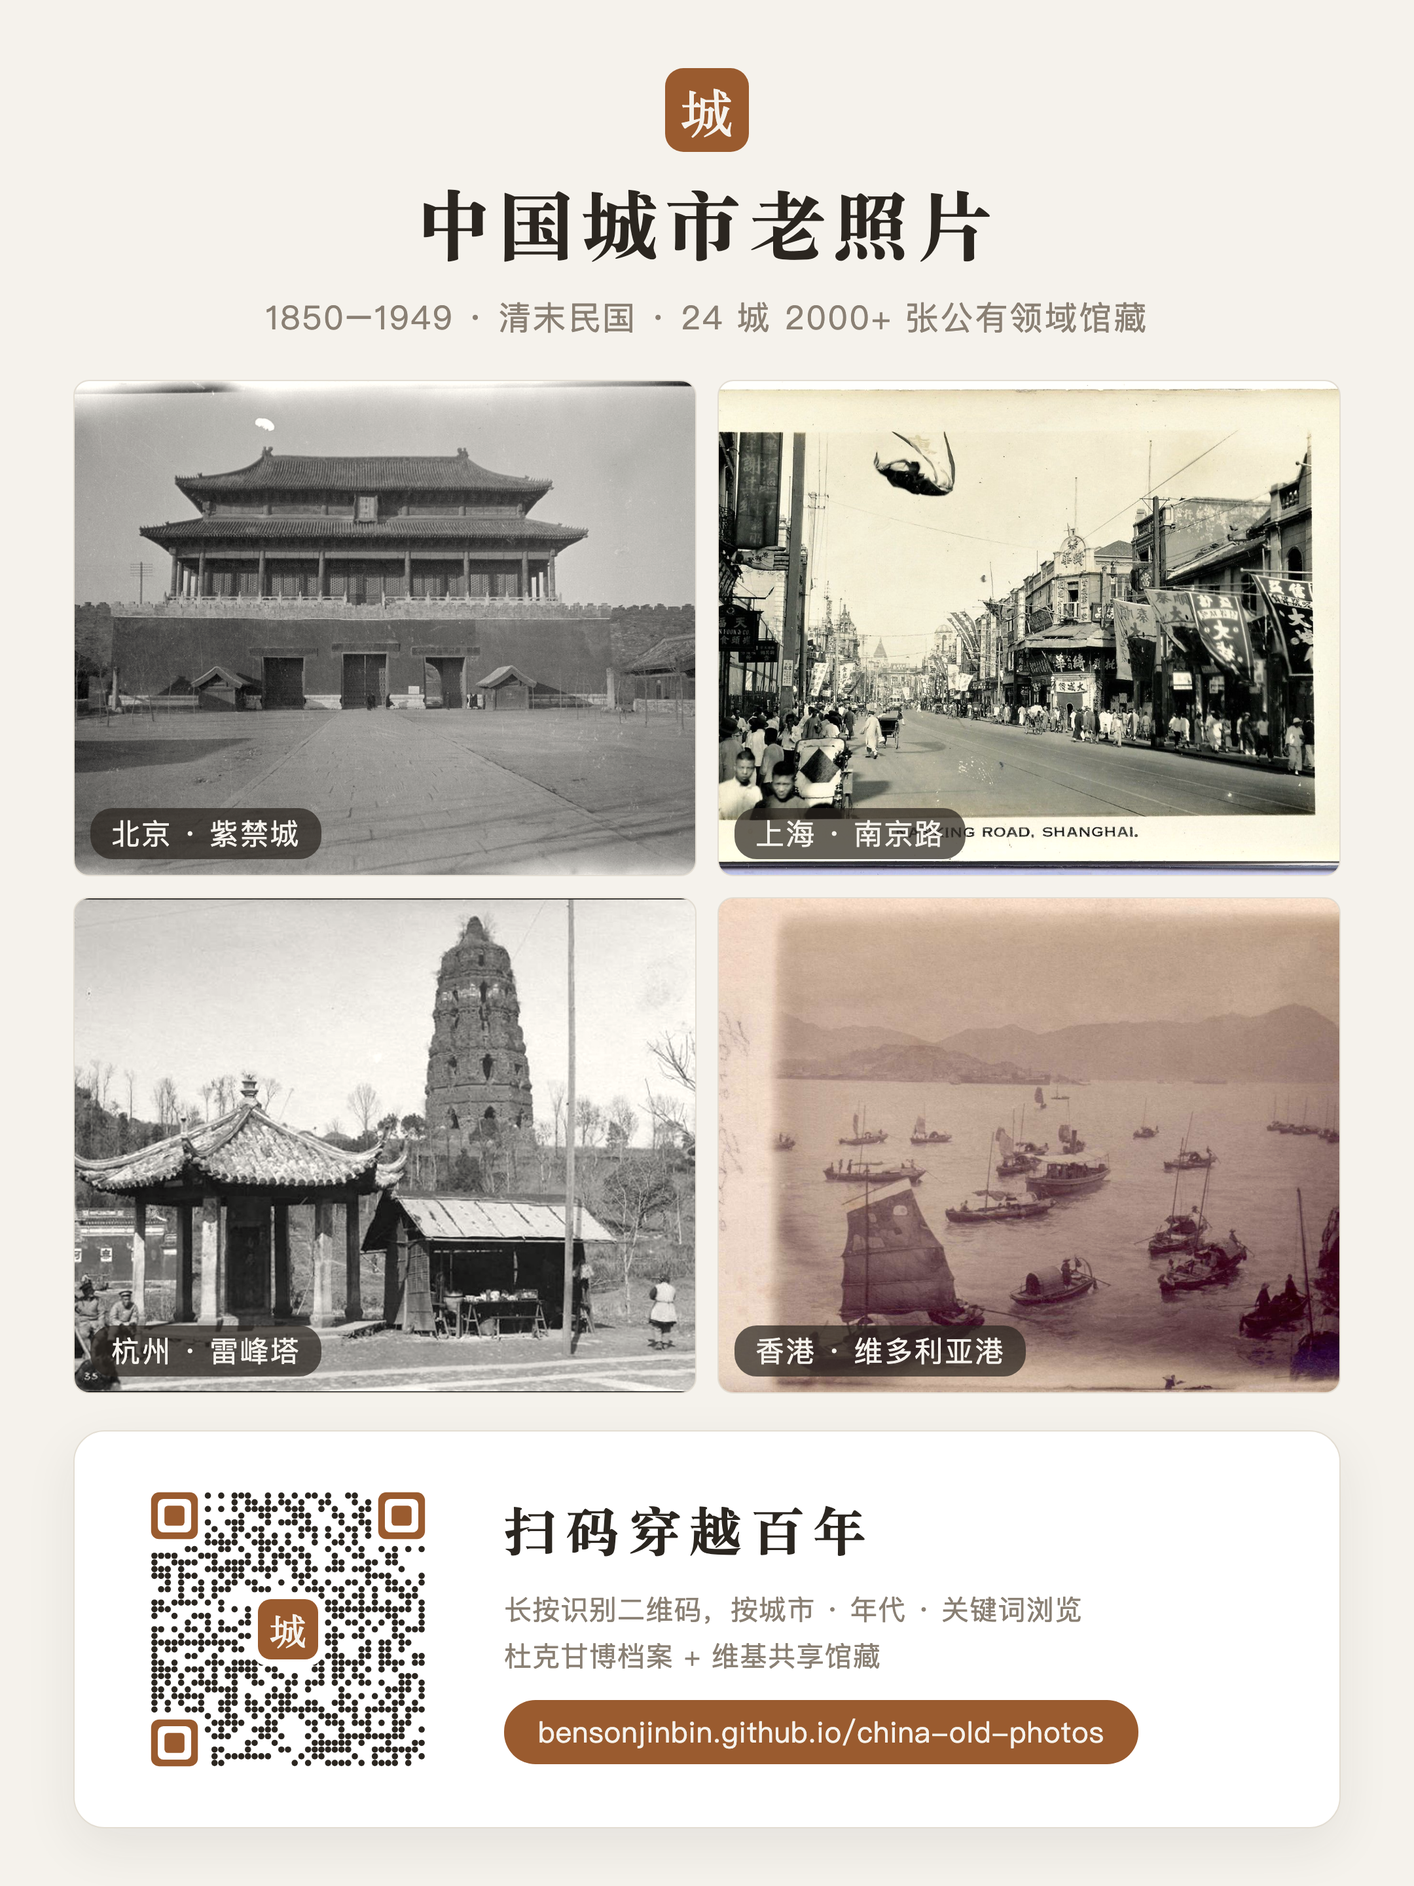
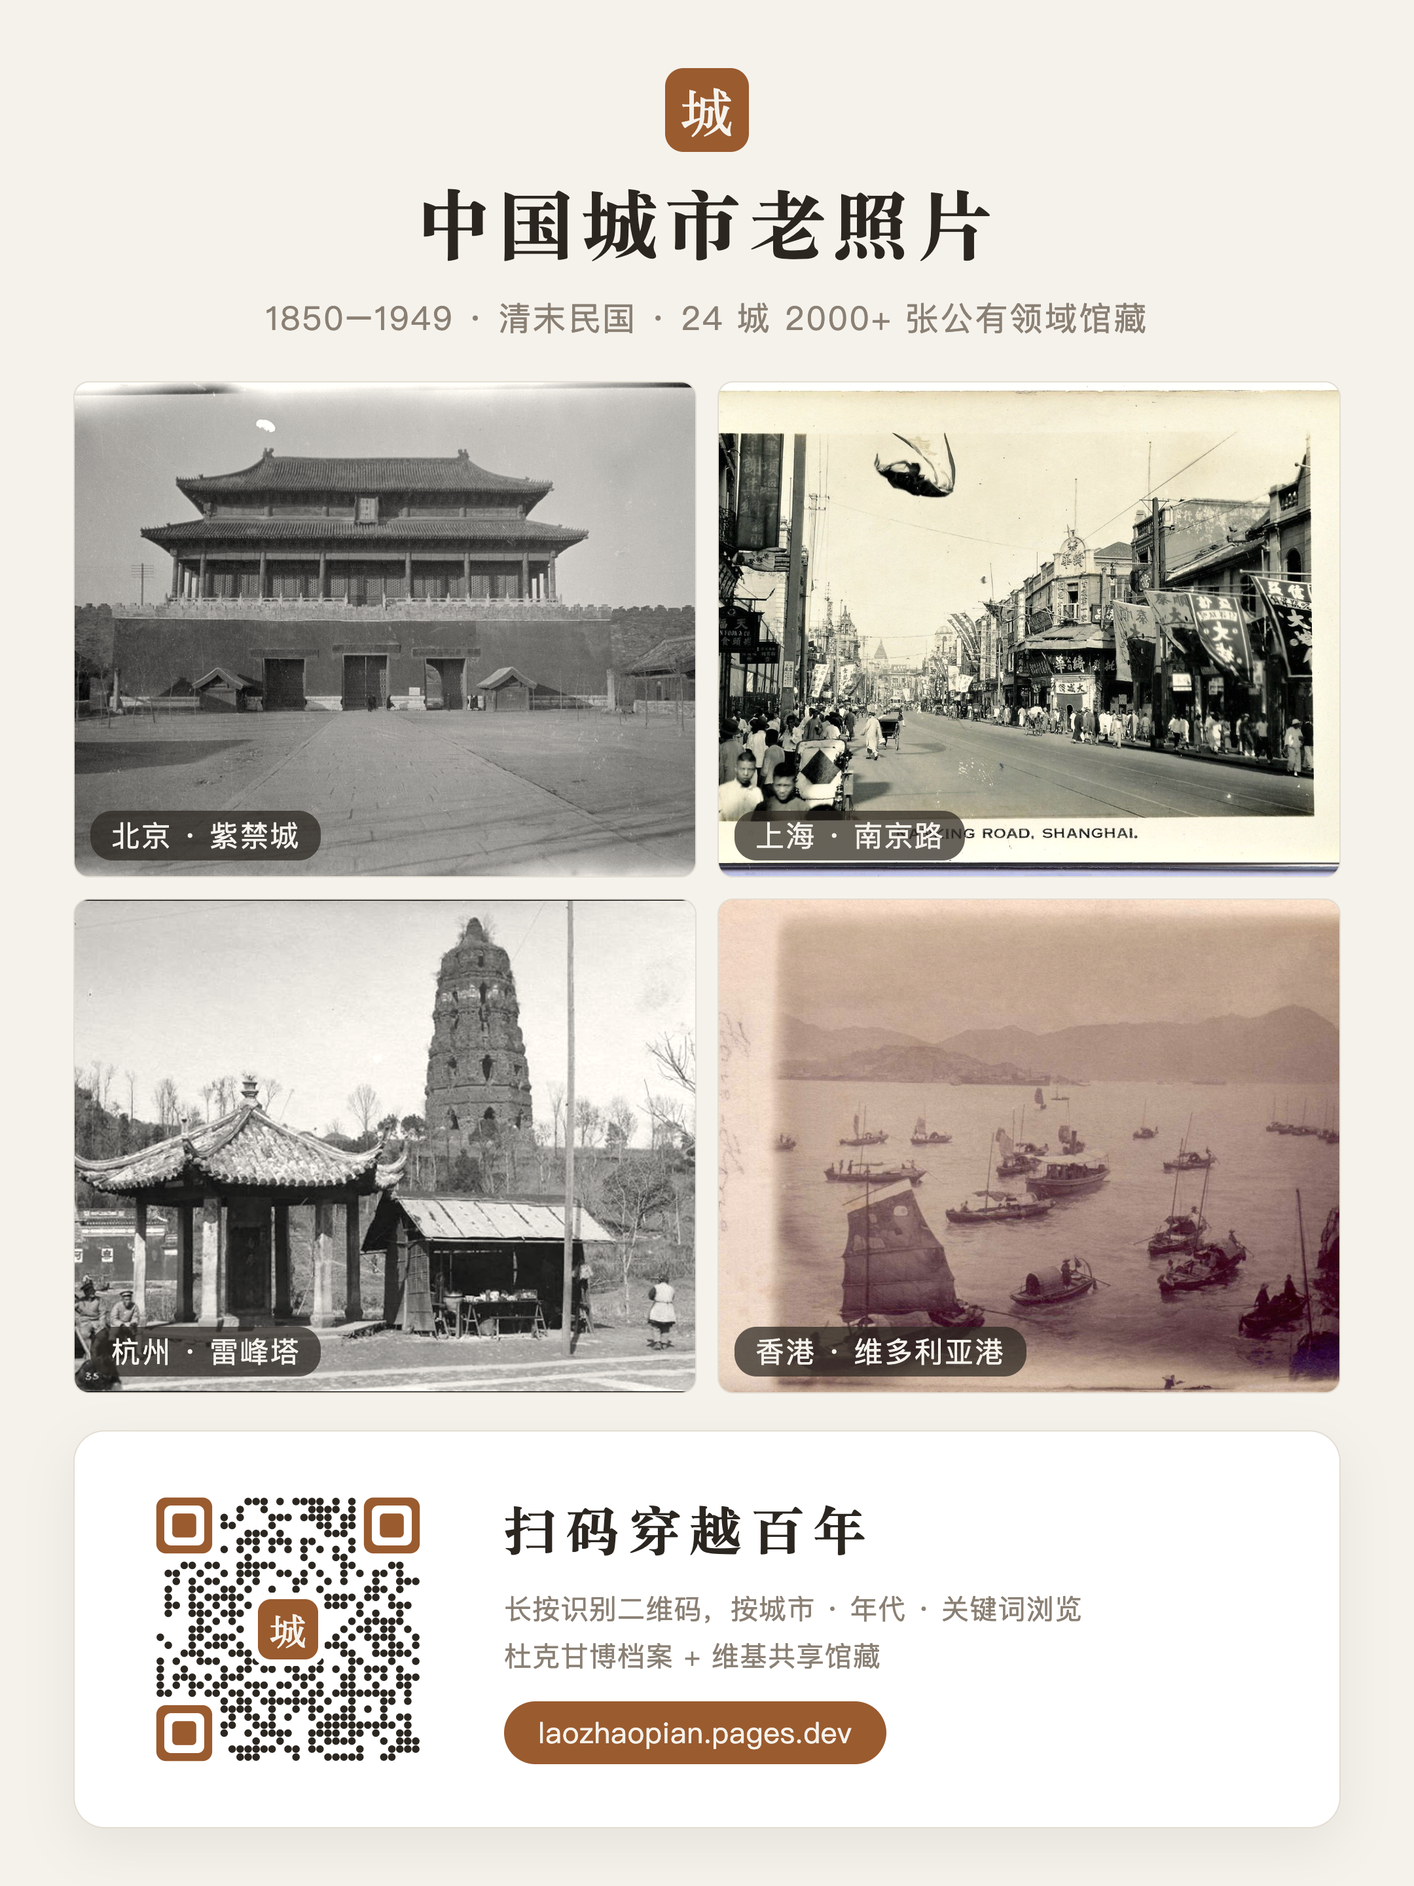
宣传物料改指 pages.dev 主站：二维码与海报重新生成，新增 gen_qr.py
迁站之后二维码和海报仍写着 bensonjinbin.github.io。扫码目前还能打开——
gh-pages 分支仍在发布，deploy.py 不带参数默认就发那边——但落地页是备份站，
而备份站的 canonical 指向 pages.dev，等于把扫码流量导到一个自称不是正本的镜像。

新码 version 4-H（33x33 模块）。新地址短了 17 字节，版本比原来的 6-H 降了两级，
模块更少更大反而好扫；纠错等级仍是 H，中间印章遮挡约 3% 面积，余量充足。

新增 tools/gen_qr.py。上次做这批物料没留生成脚本，这次只能从 svg 反推样式重写，
补上以免再来一遍。要点：
- 三个产物先在内存里全部做好再一起落盘。否则中途失败（缺字体等）会留下
  svg 是新的、png 还是旧的错配状态，海报和单发的码指向不同地址
- 印章字体走候选列表，开工前就解析，找不到直接带清单退出
- CoreImage + OpenCV 双引擎回读，扫不出或扫错就非零退出，坏码进不了提交。
  两个引擎各自可能不在（swift 要 Xcode CLT，cv2 要单独装），缺了跳过并说明，
  但一个都没有时明确报「本次未校验」并失败，不把工具缺席冒充成校验通过

两个模板里的图片路径原本写死成 file:///Users/jinbin/Documents/codeup/...，
与当前仓库路径不符，直接用浏览器打开是一片空框，一并改成相对路径，
并在文件头补上重截步骤。share_card.html 的「2041 张」已过时（现 2035），
改成 2000+ 免得每加一批照片就走样。

diff --git a/tools/share_card.html b/tools/share_card.html
@@ -1,4 +1,10 @@
 <!DOCTYPE html>
+<!--
+  竖版分享图模板（1080x1440，6 图，无二维码；要带码的用 qr_poster.html）。
+  用浏览器按 1080x1440 视口截图，deviceScaleFactor 想要 2 倍图就设 2。
+  资源路径一律相对（本文件在 tools/ 下，故 ../），别写 file:///Users/... 绝对路径。
+  下方 .url 文案要和 build_gallery2.py 的 SITE_URL 保持一致。
+-->
 <html lang="zh-CN">
 <head>
 <meta charset="utf-8">
@@ -53,18 +59,18 @@ h1 { font-size: 58px; font-weight: 900; letter-spacing: .08em; }
 <div class="head">
   <div class="seal">城</div>
   <h1>中国城市老照片</h1>
-  <div class="sub">1850–1949 · 清末民国 · 24 城 2041 张公有领域馆藏</div>
+  <div class="sub">1850–1949 · 清末民国 · 24 城 2000+ 张公有领域馆藏</div>
 </div>
 <div class="grid">
-  <div class="cell"><img src="file:///Users/jinbin/Documents/codeup/china-old-photos/beijing/gamble/gamble_044B_0462_Forbidden_City_Gate.jpg" style="transform:scale(1.08)"><span class="tag">北京 · 紫禁城</span></div>
-  <div class="cell"><img src="file:///Users/jinbin/Documents/codeup/china-old-photos/hangzhou/wiki/02_雷峰塔_1910.jpg" style="object-position:50% 18%"><span class="tag">杭州 · 雷峰塔</span></div>
-  <div class="cell"><img src="file:///Users/jinbin/Documents/codeup/china-old-photos/shanghai/wiki/16_Nanking_Road_Shanghai_c_1930s.jpg"><span class="tag">上海 · 南京路</span></div>
-  <div class="cell"><img src="file:///Users/jinbin/Documents/codeup/china-old-photos/hongkong/wiki/06_HK_JunksSampans_c1900s.jpg"><span class="tag">香港 · 维多利亚港</span></div>
-  <div class="cell"><img src="file:///Users/jinbin/Documents/codeup/china-old-photos/guangzhou/wiki/17_Five-Story_Pagoda_in_the_1890s.jpg"><span class="tag">广州 · 镇海楼</span></div>
-  <div class="cell"><img src="file:///Users/jinbin/Documents/codeup/china-old-photos/chengdu/gamble/gamble_011B_0109_Inside_Imperial_City_Gate.jpg" style="transform:scale(1.14)"><span class="tag">成都 · 皇城门</span></div>
+  <div class="cell"><img src="../beijing/gamble/gamble_044B_0462_Forbidden_City_Gate.jpg" style="transform:scale(1.08)"><span class="tag">北京 · 紫禁城</span></div>
+  <div class="cell"><img src="../hangzhou/wiki/02_雷峰塔_1910.jpg" style="object-position:50% 18%"><span class="tag">杭州 · 雷峰塔</span></div>
+  <div class="cell"><img src="../shanghai/wiki/16_Nanking_Road_Shanghai_c_1930s.jpg"><span class="tag">上海 · 南京路</span></div>
+  <div class="cell"><img src="../hongkong/wiki/06_HK_JunksSampans_c1900s.jpg"><span class="tag">香港 · 维多利亚港</span></div>
+  <div class="cell"><img src="../guangzhou/wiki/17_Five-Story_Pagoda_in_the_1890s.jpg"><span class="tag">广州 · 镇海楼</span></div>
+  <div class="cell"><img src="../chengdu/gamble/gamble_011B_0109_Inside_Imperial_City_Gate.jpg" style="transform:scale(1.14)"><span class="tag">成都 · 皇城门</span></div>
 </div>
 <div class="foot">
-  <div class="url">bensonjinbin.github.io/china-old-photos</div>
+  <div class="url">laozhaopian.pages.dev</div>
   <div class="hint">按城市 · 年代 · 关键词浏览 &nbsp;|&nbsp; 杜克甘博档案 + 维基共享馆藏</div>
 </div>
 </body>

diff --git a/tools/qr_poster.html b/tools/qr_poster.html
@@ -1,4 +1,15 @@
 <!DOCTYPE html>
+<!--
+  宣传海报模板 → assets/qr-poster.png（1080x1440 @2x = 2160x2880）。
+
+  重截步骤（改完文案或换了二维码就得重截，否则海报里还是旧的）:
+    1. 二维码先重生成: uv run --with segno --with pillow python3 tools/gen_qr.py
+    2. 本文件用浏览器按 1080x1440 视口、deviceScaleFactor=2 截全页存成 assets/qr-poster.png
+    3. 回读校验海报里的码扫出来是不是当前 SITE_URL
+
+  资源路径一律用相对地址（本文件在 tools/ 下，所以是 ../）。别写 file:///Users/... 绝对路径，
+  换机器或换目录后就全成空框了。下方 .url 文案要和 build_gallery2.py 的 SITE_URL 保持一致。
+-->
 <html lang="zh-CN">
 <head>
 <meta charset="utf-8">
@@ -79,20 +90,20 @@ h1 { font-size: 58px; font-weight: 900; letter-spacing: .1em; }
   <div class="sub">1850–1949 · 清末民国 · 24 城 2000+ 张公有领域馆藏</div>
 </div>
 <div class="grid">
-  <div class="cell"><img src="file:///Users/jinbin/Documents/codeup/china-old-photos/beijing/gamble/gamble_044B_0462_Forbidden_City_Gate.jpg" style="transform:scale(1.08)"><span class="tag">北京 · 紫禁城</span></div>
-  <div class="cell"><img src="file:///Users/jinbin/Documents/codeup/china-old-photos/shanghai/wiki/16_Nanking_Road_Shanghai_c_1930s.jpg"><span class="tag">上海 · 南京路</span></div>
-  <div class="cell"><img src="file:///Users/jinbin/Documents/codeup/china-old-photos/hangzhou/wiki/04_雷峰塔_1920年代_倒塌前.jpg"><span class="tag">杭州 · 雷峰塔</span></div>
-  <div class="cell"><img src="file:///Users/jinbin/Documents/codeup/china-old-photos/hongkong/wiki/06_HK_JunksSampans_c1900s.jpg"><span class="tag">香港 · 维多利亚港</span></div>
+  <div class="cell"><img src="../beijing/gamble/gamble_044B_0462_Forbidden_City_Gate.jpg" style="transform:scale(1.08)"><span class="tag">北京 · 紫禁城</span></div>
+  <div class="cell"><img src="../shanghai/wiki/16_Nanking_Road_Shanghai_c_1930s.jpg"><span class="tag">上海 · 南京路</span></div>
+  <div class="cell"><img src="../hangzhou/wiki/04_雷峰塔_1920年代_倒塌前.jpg"><span class="tag">杭州 · 雷峰塔</span></div>
+  <div class="cell"><img src="../hongkong/wiki/06_HK_JunksSampans_c1900s.jpg"><span class="tag">香港 · 维多利亚港</span></div>
 </div>
 <div class="foot">
   <div class="qrbox">
-    <img class="qr" src="file:///Users/jinbin/Documents/codeup/china-old-photos/assets/qrcode.svg">
+    <img class="qr" src="../assets/qrcode.svg">
     <div class="logo"><div class="s">城</div></div>
   </div>
   <div class="ft">
     <div class="slogan">扫码穿越百年</div>
     <div class="hint">长按识别二维码，按城市 · 年代 · 关键词浏览<br>杜克甘博档案 + 维基共享馆藏</div>
-    <div class="url">bensonjinbin.github.io/china-old-photos</div>
+    <div class="url">laozhaopian.pages.dev</div>
   </div>
 </div>
 </body>

diff --git a/tools/gen_qr.py b/tools/gen_qr.py
@@ -1,0 +1,219 @@
+#!/usr/bin/env python3
+"""生成站点宣传二维码（圆点风格 + 城字印章）。
+
+三个产物，地址统一取 SITE_URL，默认与 build_gallery2.py 的默认值一致：
+  assets/qrcode.svg        圆点码，不含印章 —— qr_poster.html 用它，印章由页面 DOM 叠加
+  assets/qrcode.png        圆点码 + 烤进去的印章，1440px，单独发群/朋友圈用
+  assets/qrcode-plain.png  方块素码，540px，塞进别人版式里时用
+
+用法（segno/Pillow 没装就让 uv 现装，不污染系统 python）:
+  uv run --with segno --with pillow python3 tools/gen_qr.py
+  SITE_URL=https://example.com/ uv run --with segno --with pillow python3 tools/gen_qr.py
+
+纠错等级固定 H（可容 30% 损伤），所以中间盖印章仍能扫。段长变了版本会跟着变
+（模块数少 = 单点更大 = 更好扫），几何全部按模块数推导，不写死画布尺寸。
+改完二维码记得重截海报，见 qr_poster.html 顶部注释。
+"""
+import os
+import subprocess
+import sys
+
+try:
+    import segno
+    from PIL import Image, ImageDraw, ImageFont
+except ModuleNotFoundError as e:
+    sys.exit(f"缺依赖 {e.name}。用这条跑：\n"
+             f"  uv run --with segno --with pillow python3 tools/gen_qr.py")
+
+BASE = os.path.dirname(os.path.dirname(os.path.abspath(__file__)))
+ASSETS = os.path.join(BASE, "assets")
+SITE_URL = os.environ.get("SITE_URL", "https://laozhaopian.pages.dev/")
+
+DARK = "#2b2620"     # 数据点：正文同色，不用纯黑
+BRAND = "#9a5b2f"    # 定位角 + 印章：站点主色
+BG = "#ffffff"
+
+PITCH = 10           # SVG 里每模块的边长（用户单位）
+QUIET = 4            # 静默区模块数，规范最少 4
+DOT_R = 4.7          # 数据点半径，留一丝缝，不然糊成一片
+PNG_SIZE = 1440      # 带印章 PNG
+PLAIN_SIZE = 540     # 素码 PNG
+LOGO_FRAC = 0.17     # 印章边长占码宽比例，遮挡约 3% 面积
+SEAL_CHAR = "城"
+SEAL_FONTS = [       # 印章字体候选，取第一个存在的；宋体优先，和站点标题同族
+    "/System/Library/Fonts/Songti.ttc",
+    "/System/Library/Fonts/Supplemental/Songti.ttc",
+    "/System/Library/Fonts/Hiragino Sans GB.ttc",
+    "/System/Library/Fonts/PingFang.ttc",
+]
+
+
+def seal_font_path():
+    """开工前就把字体定下来，别等画到一半才炸——那会留下半新半旧的 assets/。"""
+    for p in SEAL_FONTS:
+        if os.path.exists(p):
+            return p
+    sys.exit("找不到可用的印章字体，候选都不存在：\n  " + "\n  ".join(SEAL_FONTS) +
+             "\n装一个中文字体或改 SEAL_FONTS。")
+
+
+def finder_origins(n):
+    """三个定位角左上模块坐标（第四角没有，QR 就靠这个判方向）。"""
+    return [(0, 0), (0, n - 7), (n - 7, 0)]
+
+
+def is_finder(r, c, n):
+    """落在定位角 8x8（含分隔带）里的模块交给圆角方框画，别再画点。"""
+    return ((r < 8 and c < 8) or (r < 8 and c >= n - 8) or (r >= n - 8 and c < 8))
+
+
+def build_svg(matrix, n):
+    side = (n + 2 * QUIET) * PITCH
+    out = [f'<svg xmlns="http://www.w3.org/2000/svg" viewBox="0 0 {side} {side}"'
+           f' width="{side}" height="{side}">',
+           f'<rect width="{side}" height="{side}" fill="{BG}"/>']
+    # 定位角：外框 / 挖白 / 实心，三层圆角同心
+    for r0, c0 in finder_origins(n):
+        x, y = (QUIET + c0) * PITCH, (QUIET + r0) * PITCH
+        for inset, span, rx, fill in ((0, 7, 1.2, BRAND), (1, 5, .84, BG), (2, 3, .54, BRAND)):
+            out.append(f'<rect x="{x + inset * PITCH:g}" y="{y + inset * PITCH:g}"'
+                       f' width="{span * PITCH}" height="{span * PITCH}"'
+                       f' rx="{rx * PITCH:g}" fill="{fill}"/>')
+    for r, row in enumerate(matrix):
+        for c, on in enumerate(row):
+            if not on or is_finder(r, c, n):
+                continue
+            cx = (QUIET + c) * PITCH + PITCH / 2
+            cy = (QUIET + r) * PITCH + PITCH / 2
+            out.append(f'<circle cx="{cx:g}" cy="{cy:g}" r="{DOT_R:g}" fill="{DARK}"/>')
+    out.append("</svg>")
+    return "".join(out)
+
+
+def build_png(matrix, n, size, font_path):
+    """圆点码 + 印章。4 倍超采样再缩，圆边才不锯齿。"""
+    ss = 4
+    big = size * ss
+    unit = big / (n + 2 * QUIET)          # 一个模块多少像素
+    img = Image.new("RGB", (big, big), BG)
+    d = ImageDraw.Draw(img)
+    for r0, c0 in finder_origins(n):
+        x, y = (QUIET + c0) * unit, (QUIET + r0) * unit
+        for inset, span, rx, fill in ((0, 7, 1.2, BRAND), (1, 5, .84, BG), (2, 3, .54, BRAND)):
+            x0, y0 = x + inset * unit, y + inset * unit
+            d.rounded_rectangle([x0, y0, x0 + span * unit, y0 + span * unit],
+                                radius=rx * unit, fill=fill)
+    rad = DOT_R / PITCH * unit
+    for r, row in enumerate(matrix):
+        for c, on in enumerate(row):
+            if not on or is_finder(r, c, n):
+                continue
+            cx = (QUIET + c + .5) * unit
+            cy = (QUIET + r + .5) * unit
+            d.ellipse([cx - rad, cy - rad, cx + rad, cy + rad], fill=DARK)
+    # 印章：圆角方块直接压在点上，不留白圈——白圈会让码看着断开
+    box = big * LOGO_FRAC
+    x0 = y0 = (big - box) / 2
+    d.rounded_rectangle([x0, y0, x0 + box, y0 + box], radius=box * .22, fill=BRAND)
+    font = ImageFont.truetype(font_path, int(box * .62))
+    d.text((big / 2, big / 2), SEAL_CHAR, font=font, fill=BG, anchor="mm")
+    return img.resize((size, size), Image.LANCZOS)
+
+
+def build_plain_png(matrix, n, size):
+    """方块素码。模块边界按 round 分摊到整像素，边缘保持利落，不做超采样。"""
+    units = n + 2 * QUIET
+    edge = [round(i * size / units) for i in range(units + 1)]
+    img = Image.new("RGB", (size, size), BG)
+    d = ImageDraw.Draw(img)
+    for r, row in enumerate(matrix):
+        for c, on in enumerate(row):
+            if on:
+                d.rectangle([edge[QUIET + c], edge[QUIET + r],
+                             edge[QUIET + c + 1] - 1, edge[QUIET + r + 1] - 1], fill=DARK)
+    return img
+
+
+def verify(paths):
+    """双引擎回读：CoreImage（macOS 原生，微信/相机同源）+ OpenCV。可用的引擎都得读对。
+
+    两个引擎各自可能不在（swift 要 Xcode CLT，cv2 要单独装），缺了就跳过并说明，
+    不能因为校验工具缺席就抛栈——但也不能一个都没有还算通过。
+    """
+    got = None
+    try:
+        ci = subprocess.run(["swift", "-", *paths], input=CI_SWIFT,
+                            capture_output=True, text=True)
+        got = dict(l.split("\t", 1) for l in ci.stdout.splitlines() if "\t" in l)
+    except (FileNotFoundError, OSError):
+        print("  ! 找不到 swift（需 Xcode 命令行工具），跳过 CoreImage 引擎")
+    try:
+        import cv2
+    except ModuleNotFoundError:
+        cv2 = None
+        print("  ! 没装 opencv，跳过 OpenCV 引擎（要用就加 --with opencv-python-headless）")
+    if got is None and cv2 is None:
+        print("  ! 两个引擎都不可用，本次没做回读校验——产物已写盘，请手动扫码确认。")
+        return False
+    ok = True
+    for p in paths:
+        rel = os.path.relpath(p, BASE)
+        engines = []
+        if got is not None:
+            engines.append(("CoreImage", got.get(p, "读不出")))
+        if cv2 is not None:
+            data, _, _ = cv2.QRCodeDetector().detectAndDecode(cv2.imread(p))
+            engines.append(("OpenCV", data or "读不出"))
+        bad = [f"{name}={val!r}" for name, val in engines if val != SITE_URL]
+        if bad:
+            ok = False
+            print(f"  ✗ {rel}: " + "  ".join(bad))
+        else:
+            names = " + ".join(name for name, _ in engines)
+            print(f"  ✓ {rel}: {names} {'均' if len(engines) > 1 else ''}读出目标地址")
+    return ok
+
+
+CI_SWIFT = """
+import Foundation
+import CoreImage
+let d = CIDetector(ofType: CIDetectorTypeQRCode, context: nil,
+                   options: [CIDetectorAccuracy: CIDetectorAccuracyHigh])!
+for path in CommandLine.arguments.dropFirst() {
+  guard let img = CIImage(contentsOf: URL(fileURLWithPath: path)) else { continue }
+  let f = d.features(in: img).compactMap { ($0 as? CIQRCodeFeature)?.messageString }
+  print("\\(path)\\t\\(f.first ?? "读不出")")
+}
+"""
+
+
+def main():
+    qr = segno.make(SITE_URL, error="h")
+    matrix = [[bool(v) for v in row] for row in qr.matrix]
+    n = len(matrix)
+    print(f"SITE_URL={SITE_URL}  ({len(SITE_URL.encode())} bytes)")
+    print(f"QR version {qr.version}-H, {n}x{n} 模块")
+
+    # 三个产物先全部在内存里做好，再一起落盘。中途出错（缺字体等）不能只写一半，
+    # 那会让 assets/ 里 svg 是新的、png 是旧的，海报和单发的码指向不同地址。
+    svg_data = build_svg(matrix, n)
+    png_img = build_png(matrix, n, PNG_SIZE, seal_font_path())
+    plain_img = build_plain_png(matrix, n, PLAIN_SIZE)
+
+    svg = os.path.join(ASSETS, "qrcode.svg")
+    png = os.path.join(ASSETS, "qrcode.png")
+    plain = os.path.join(ASSETS, "qrcode-plain.png")
+    with open(svg, "w") as f:
+        f.write(svg_data)
+    png_img.save(png)
+    plain_img.save(plain, optimize=True)
+    for p in (svg, png, plain):
+        print(f"wrote {os.path.relpath(p, BASE)} ({os.path.getsize(p) / 1024:.1f} KB)")
+
+    print("回读校验（含印章那张是重点，遮挡后仍须可扫）:")
+    if not verify([png, plain]):
+        sys.exit("有产物扫不出或扫错，别提交。")
+
+
+if __name__ == "__main__":
+    main()
